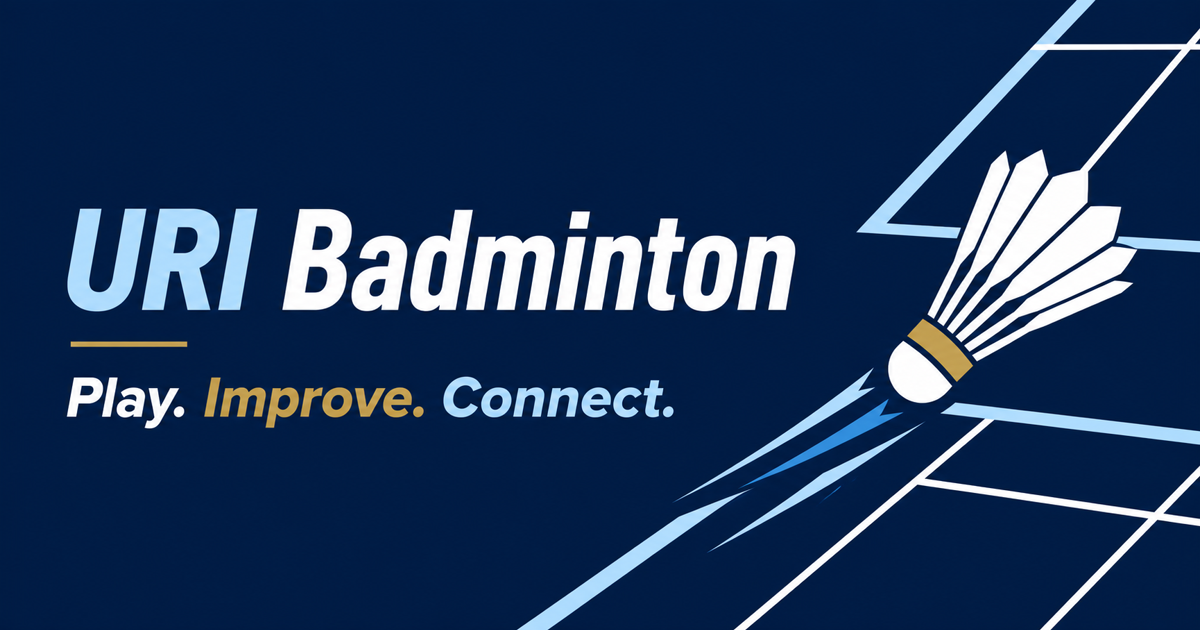
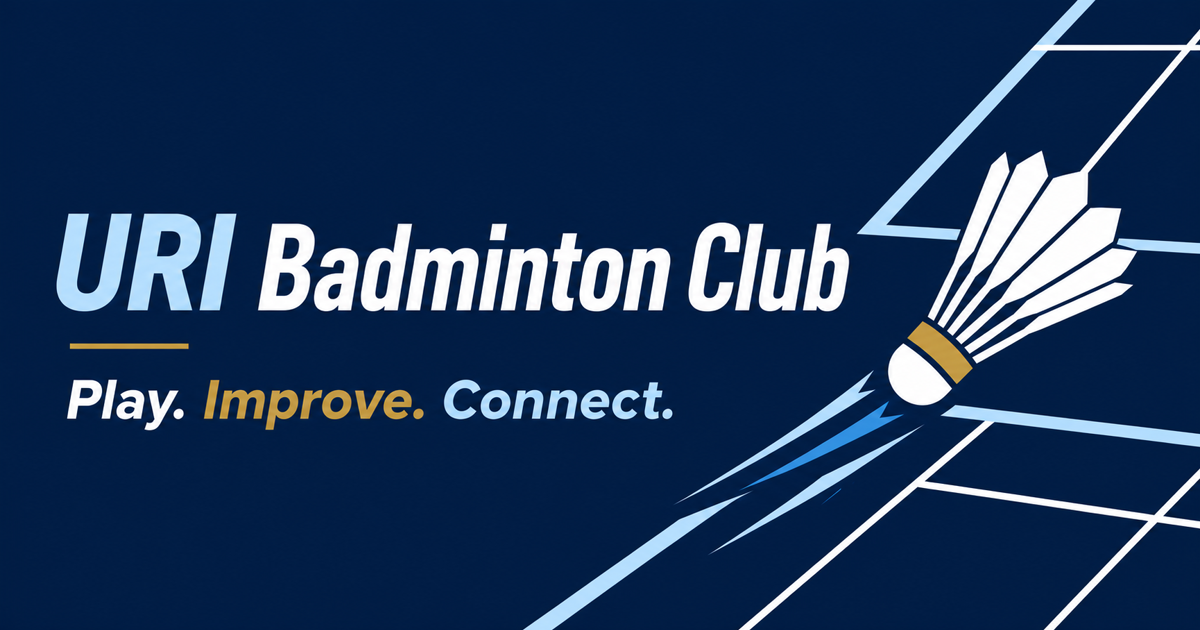
Rename site to URI Badminton Club

diff --git a/src/data/site.ts b/src/data/site.ts
@@ -43,9 +43,9 @@ const optionalUrl = (value?: string): string | undefined => {
 };
 
 export const site: SiteConfig = {
-  name: "URI Badminton",
+  name: "URI Badminton Club",
   description:
-    "A student-run badminton community at the University of Rhode Island, welcoming students of all experience levels.",
+    "URI Badminton Club is a student-run community at the University of Rhode Island, welcoming students of all experience levels.",
   url: "https://uri-badminton.github.io",
   repositoryUrl: "https://github.com/uri-badminton/uri-badminton.github.io",
   hero: {
@@ -53,7 +53,7 @@ export const site: SiteConfig = {
     description:
       "Meet fellow students, build your game, and enjoy time on court. Beginners, experienced players, and everyone in between are welcome.",
     imagePath: "/og.png",
-    imageAlt: "URI Badminton — Play. Improve. Connect.",
+    imageAlt: "URI Badminton Club — Play. Improve. Connect.",
   },
   practiceSchedule: [
     {
@@ -84,5 +84,5 @@ export const site: SiteConfig = {
     "A welcoming attitude and good sportsmanship",
   ],
   disclaimer:
-    "URI Badminton is a student-run badminton community at the University of Rhode Island. This website is independently maintained by student organizers.",
+    "URI Badminton Club is a student-run badminton community at the University of Rhode Island. This website is independently maintained by student organizers.",
 };

diff --git a/README.md b/README.md
@@ -1,6 +1,6 @@
-# URI Badminton website
+# URI Badminton Club website
 
-The public website for URI Badminton, a student-run badminton community at the University of Rhode Island. It provides maintainable pages for practice information, automatically synced YouTube videos, and participation details without a backend or runtime services.
+The public website for URI Badminton Club, a student-run badminton community at the University of Rhode Island. It provides maintainable pages for practice information, automatically synced YouTube videos, and participation details without a backend or runtime services.
 
 The intended public URL is <https://uri-badminton.github.io>.
 
@@ -106,7 +106,7 @@ Use a filename such as `2026-08-15-practice-update.md`. Dates are parsed consist
 
 ## YouTube video synchronization
 
-The public URI Badminton channel is configured as <https://www.youtube.com/@uribadminton>. GitHub Actions reads its public YouTube RSS feed during every deployment and every six hours. Up to the 15 most recent uploads are rendered statically; the complete archive remains available on YouTube.
+The public URI Badminton Club channel is configured as <https://www.youtube.com/@uribadminton>. GitHub Actions reads its public YouTube RSS feed during every deployment and every six hours. Up to the 15 most recent uploads are rendered statically; the complete archive remains available on YouTube.
 
 No API key is required. Run the synchronization locally with:
 

diff --git a/src/content/announcements/2026-07-29-website-launch.md b/src/content/announcements/2026-07-29-website-launch.md
@@ -1,12 +1,12 @@
 ---
-title: "Welcome to the URI Badminton Website"
+title: "Welcome to the URI Badminton Club Website"
 date: 2026-07-29
 summary: "Our new student-run community website is ready for practice news, schedules, and training resources."
 pinned: false
 draft: false
 ---
 
-Welcome to the new home of URI Badminton.
+Welcome to the new home of URI Badminton Club.
 
 This website will make it easier to find practice announcements, weekly schedule details, training videos, and information about joining the community. It is independently maintained by student organizers and will grow as confirmed club information becomes available.
 

diff --git a/CONTENT_GUIDE.md b/CONTENT_GUIDE.md
@@ -1,4 +1,4 @@
-# URI Badminton content guide
+# URI Badminton Club content guide
 
 This guide is for student organizers who want to update the website using only GitHub in a browser.
 
